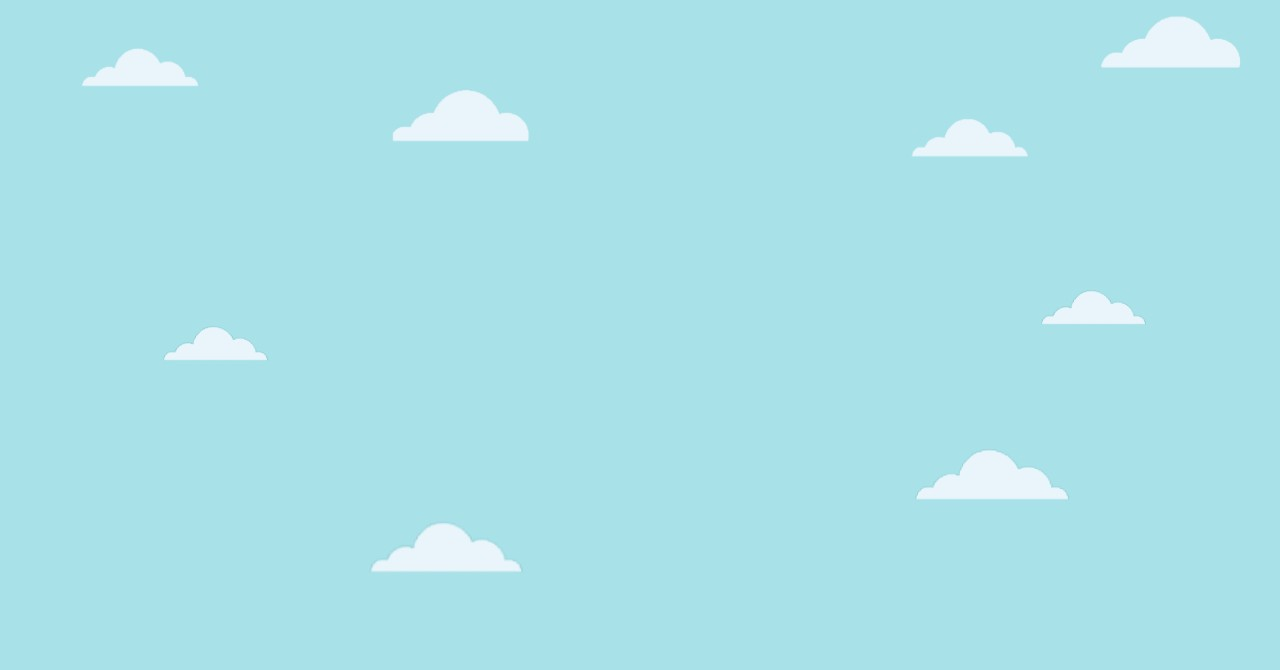
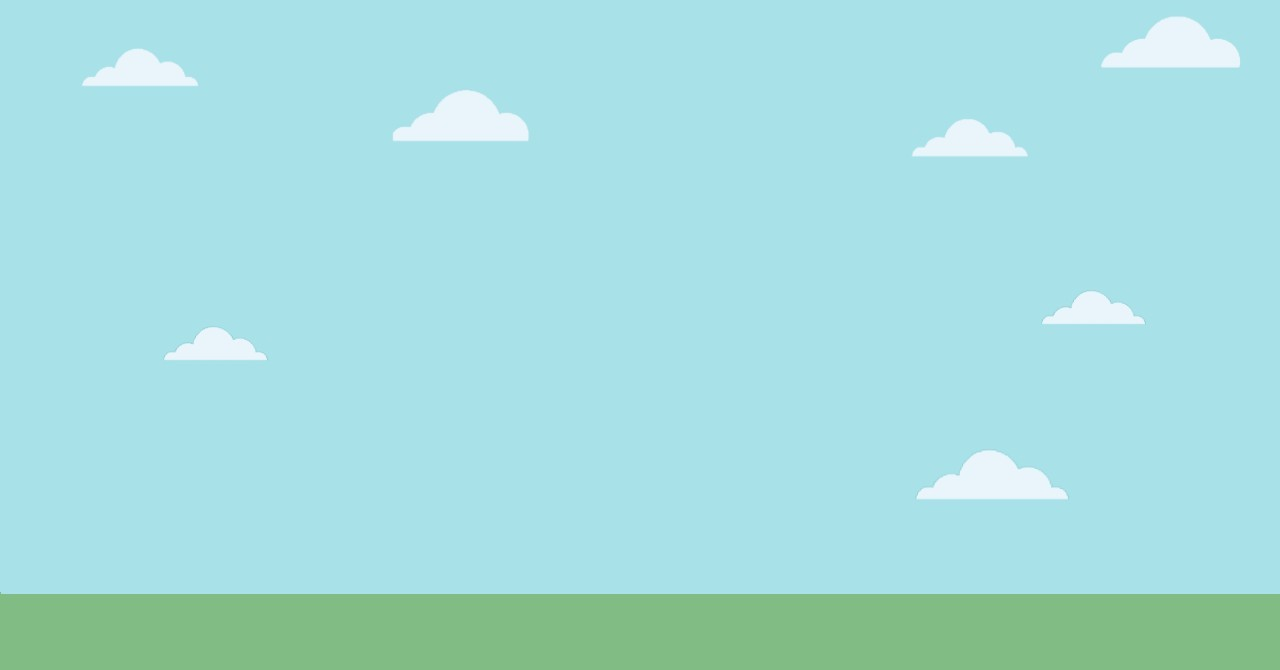
Add styling to quiz and progress bar, change background quiz.html

Changed region(s): [[0.0, 0.7761, 1.0, 1.0]]

diff --git a/quiz.html b/quiz.html
@@ -95,8 +95,8 @@
     <div class="center mt-5 pt-5 px-3 content-text">
       <h1>Test your knowledge with a quizzzz</h1>
     </div>
-    <div id="quiz" class="pt-5 center">
-      <div class="container-fluid quizContainer">
+    <div id="quiz" class="pt-5 px-2 mb-2 center">
+      <div class="container quizContainer">
         <div id="quizQuestionsContainer" class="content-text">
           <div class="row">
             <div class="col-md-3">
@@ -108,22 +108,22 @@
               </h3>
             </div>
           </div>
-          <div class="row ">
-              <div class="col-sm-4">
+          <div class="row center p-2">
+              <div class="col-l-3 text-center">
                 <label class="option button text-center"
                   ><input type="radio" name="options" value="1" /><span
                     id="option1"
                   ></span
                 ></label>
               </div>
-              <div class="col-sm-4">
+              <div class="col-l-3 text-center">
                 <label class="option button text-center"
                   ><input type="radio" name="options" value="2" /><span
                     id="option2"
                   ></span
                 ></label>
               </div>
-              <div class="col-sm-4">
+              <div class="col-l-3 text-center">
                 <label class="option button text-center"
                   ><input type="radio" name="options" value="3" /><span
                     id="option3"
@@ -132,8 +132,8 @@
               </div>
             </div>
           </div>
-          <div id="nextContainer" class="row">
-          <div class="center">
+          <div id="nextContainer">
+          <div class="row center p-2">
             <button
               id="nextBtn"
               class="button text-center"
@@ -142,13 +142,12 @@
               Next
             </button>
           </div>
-          <div class="center">
+          <div class="row center pt-2 pb-3">
             <progress id="progBar" max="50" value="10"> </progress>
           </div>
           </div>
         <div
           id="quizResultsContainer"
-          class="quizContainer"
           style="display: none;"
         >
           <button id="showAnswers" class="buttons">

diff --git a/assets/css/style.css b/assets/css/style.css
@@ -241,8 +241,9 @@ div #map {
 
 .quizContainer {
   background-color: white;
-  border: 1px solid #fab140;
+  border: 3px solid #fab140;
   border-radius: 5px;
+  width: 80%;
 }
 
 .options {
@@ -256,5 +257,20 @@ div #map {
 }
 
 .bee-img {
-    height: 200px;
+  height: 200px;
+}
+
+
+progress {
+  border-radius: 3px; 
+  height: 20px;
+  width: 30%
+}
+progress::-webkit-progress-bar {
+  background-color: #A8E1E8;
+  border-radius: 3px;
+}
+progress::-webkit-progress-value {
+  background-color: #fab140;
+  border-radius: 3px;
 }
